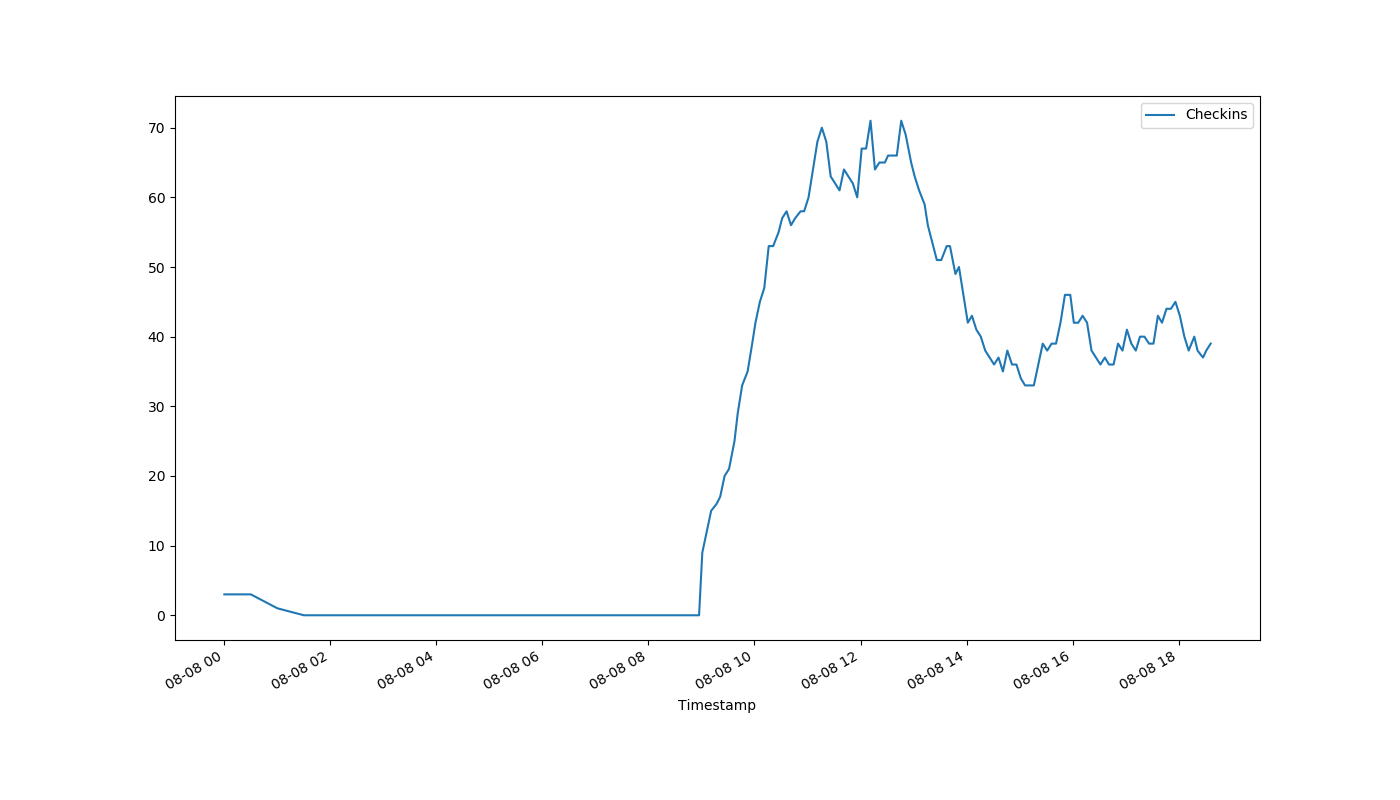
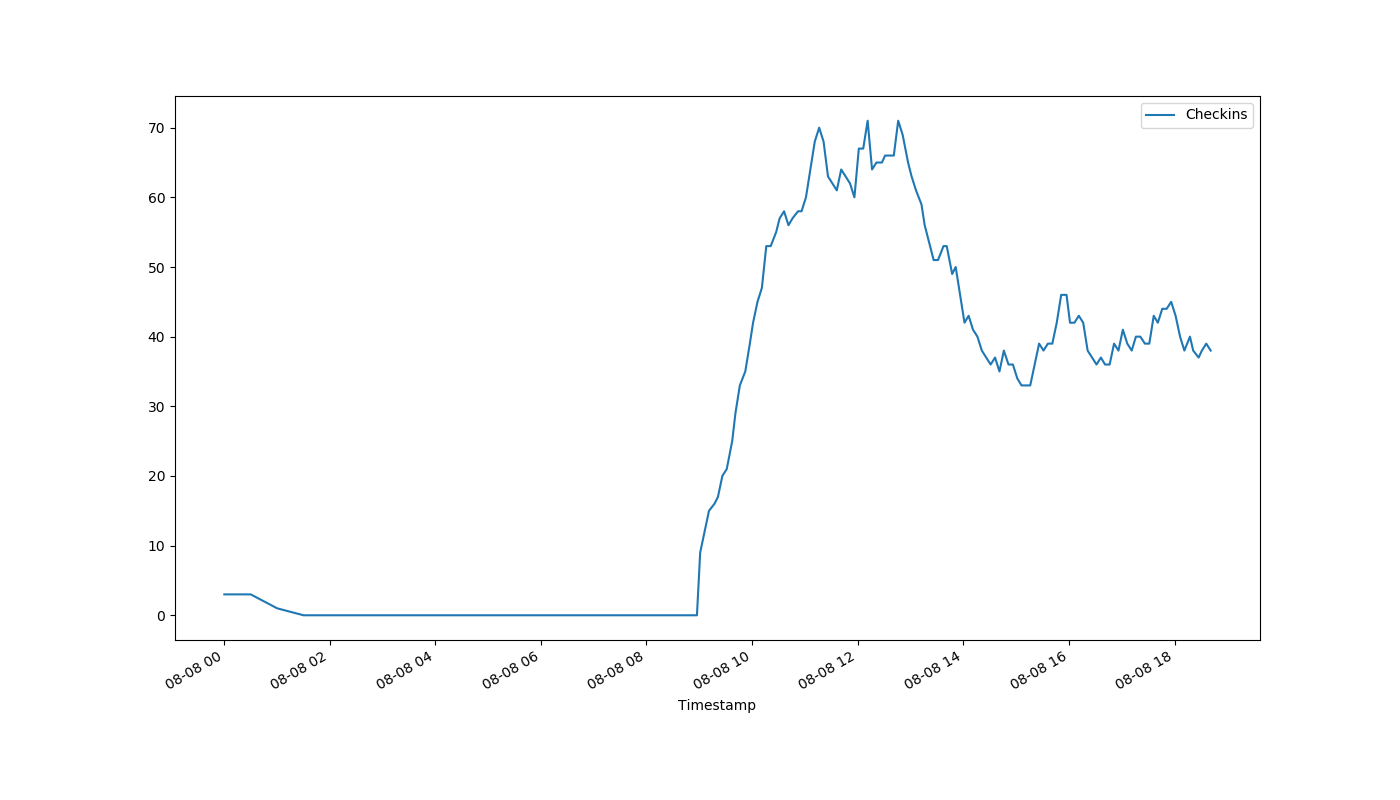
auto-Aug-08-18:42:48

diff --git a/index.html b/index.html
@@ -1,1 +1,1 @@
-<!DOCTYPE html><html><head><meta http-equiv="refresh" content="30"><link rel='stylesheet' href='holmcurrent.css'></head><body><p id='count'>39</p><div id='graph-wrap'><img id='graph' src='holmgraph-Aug-08.png'></div><p id='updated'>Last updated 18:36:05 / 18:36:01</p></body></html>
+<!DOCTYPE html><html><head><meta http-equiv="refresh" content="30"><link rel='stylesheet' href='holmcurrent.css'></head><body><p id='count'>38</p><div id='graph-wrap'><img id='graph' src='holmgraph-Aug-08.png'></div><p id='updated'>Last updated 18:41:05 / 18:41:02</p></body></html>
